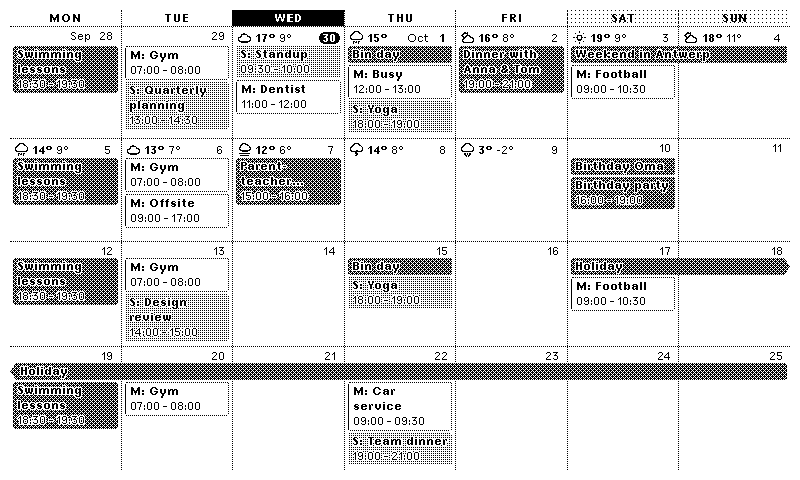
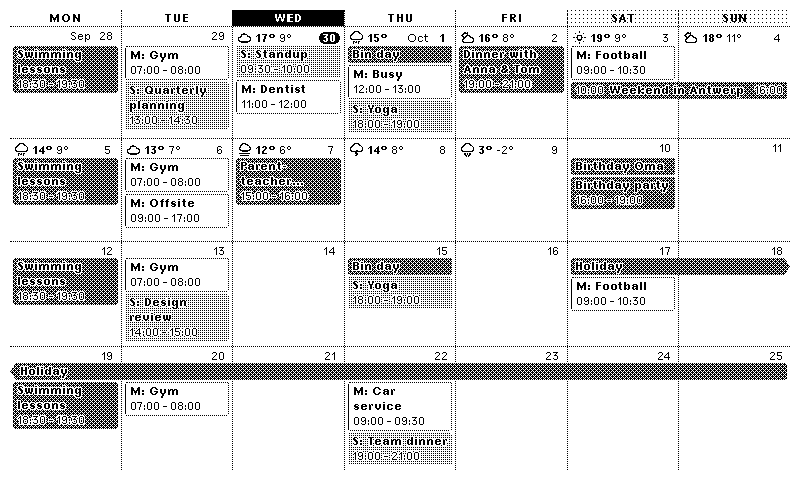
Show multi-day event times at the band's ends, on one line
A timed event over several days was drawn with its range below the title
("10:00 – 16:00", which reads as one afternoon), or a dangling "19:00 –" /
"– 11:00" when it runs into another week. It now has the title on one line
with the start time at the band's left end and the end time at its right
end, each under the day it falls on. Narrow views keep the start time below
the title.

The sample "Weekend in Antwerp" is now a timed Sat 10:00 – Sun 16:00 event,
so the README images and the sample feeds show it.

Claude-Session: https://claude.ai/code/session_014uKhLv4XB6bTT1ybXzLfTb

Changed region(s): [[0.7188, 0.0938, 1.0, 0.2188]]

diff --git a/UPSTREAM.md b/UPSTREAM.md
@@ -49,8 +49,11 @@ treats its native plugins as source-available and is fine with them being remixe
   with a bold title; events from a coloured calendar have bold titles too. Single-day all-day events differ from upstream (which fills them
   too): they are drawn like timed events, with the bar and no time.
   Bands that go on in another week have a pointed end on that side (upstream: square),
-  and a timed event over several weeks shows only its start time in its first week and
-  only its end time in its last (FullCalendar shows the whole range in every week).
+  and a timed event over several days shows its title on one line between its start time
+  (at the band's left end) and its end time (at the right end), each under its own day;
+  over several weeks, the start time is in its first week and the end time in its last
+  (FullCalendar shows the whole range, below the title, in every week). Narrow views keep
+  the start time below the title.
   Titles differ too: every title, of any kind of event, wraps over at most two lines and
   then ends in an ellipsis, where upstream wraps timed titles in full.
   Grid lines are thin grey (dotted on 1-/2-bit), headers are centred and bold with the
